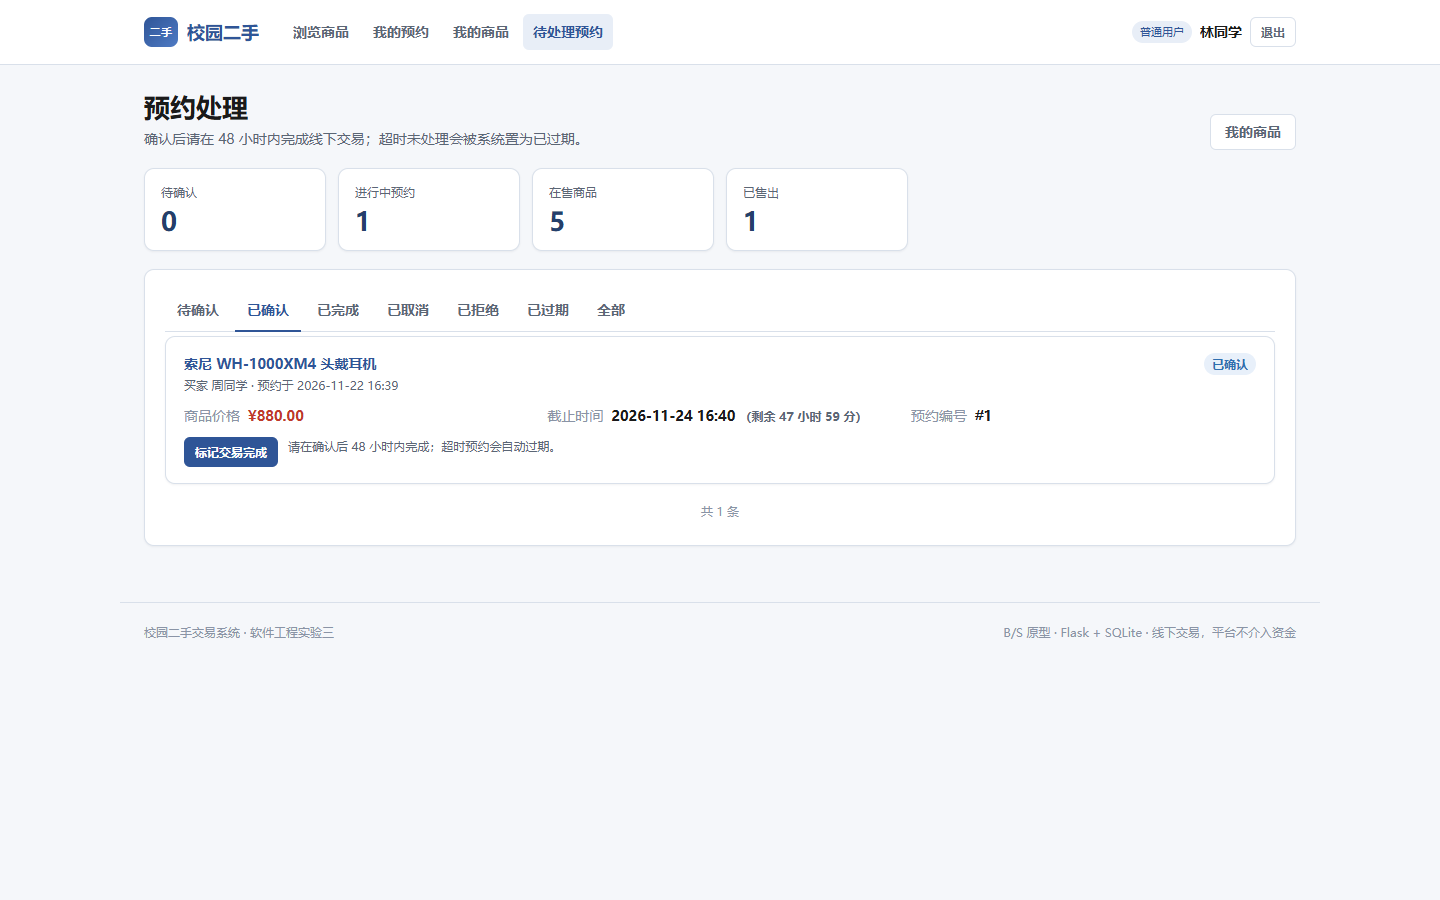
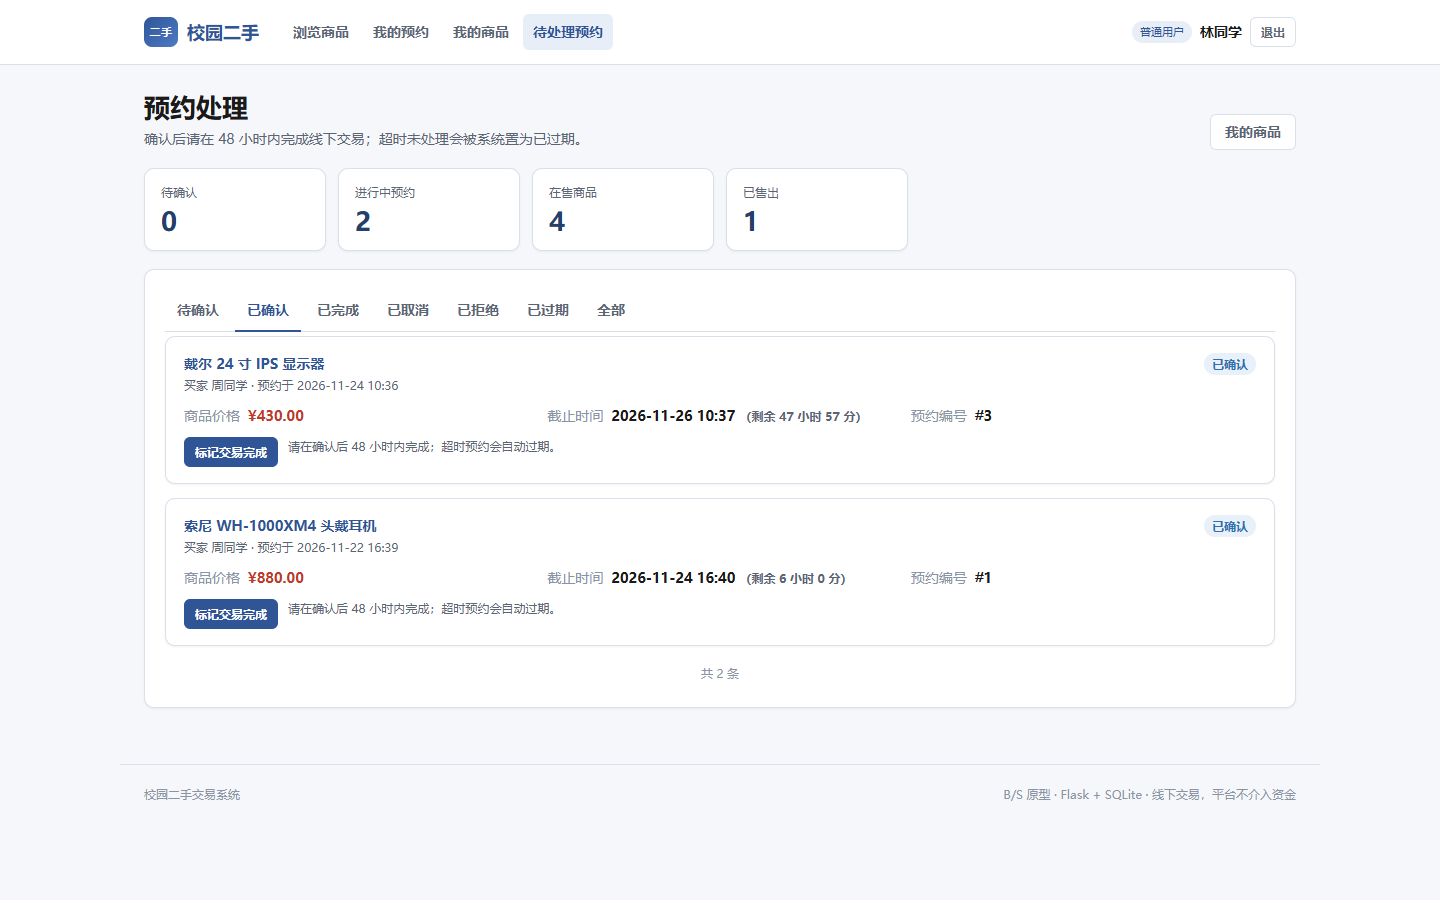
fix(ui): 更新页脚文案与页面截图

diff --git a/code/secondhand/templates/base.html b/code/secondhand/templates/base.html
@@ -61,7 +61,7 @@
 </main>
 
 <footer class="footer">
-  <span>校园二手交易系统 · 软件工程实验三</span>
+  <span>校园二手交易系统</span>
   <span>B/S 原型 · Flask + SQLite · 线下交易，平台不介入资金</span>
 </footer>
 {% block scripts %}{% endblock %}
